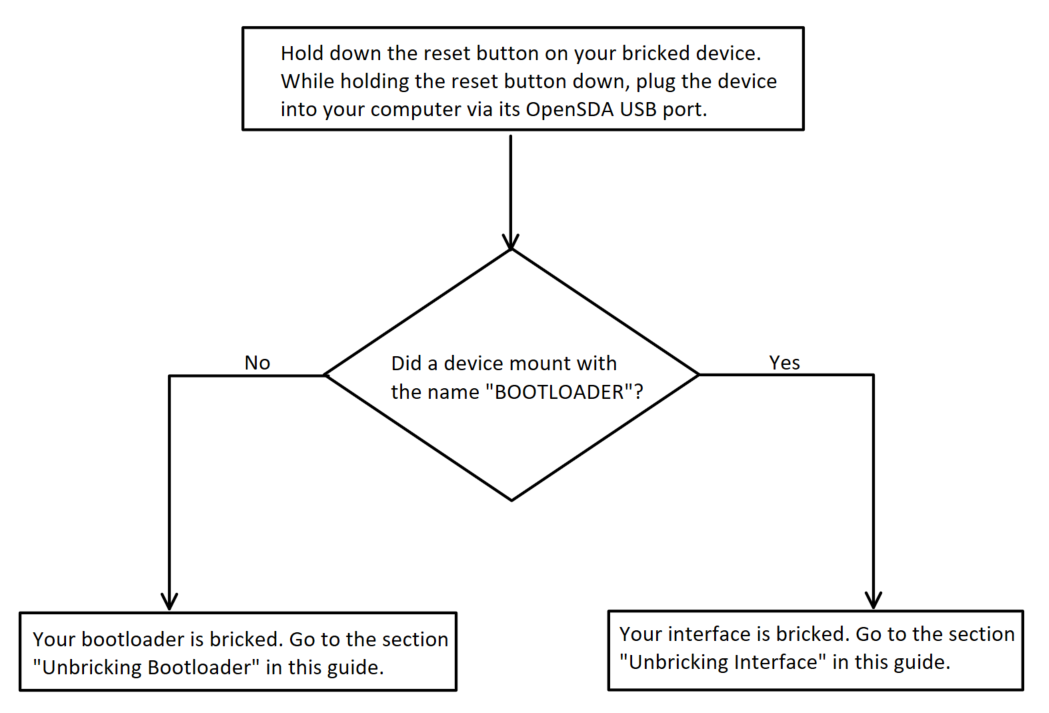
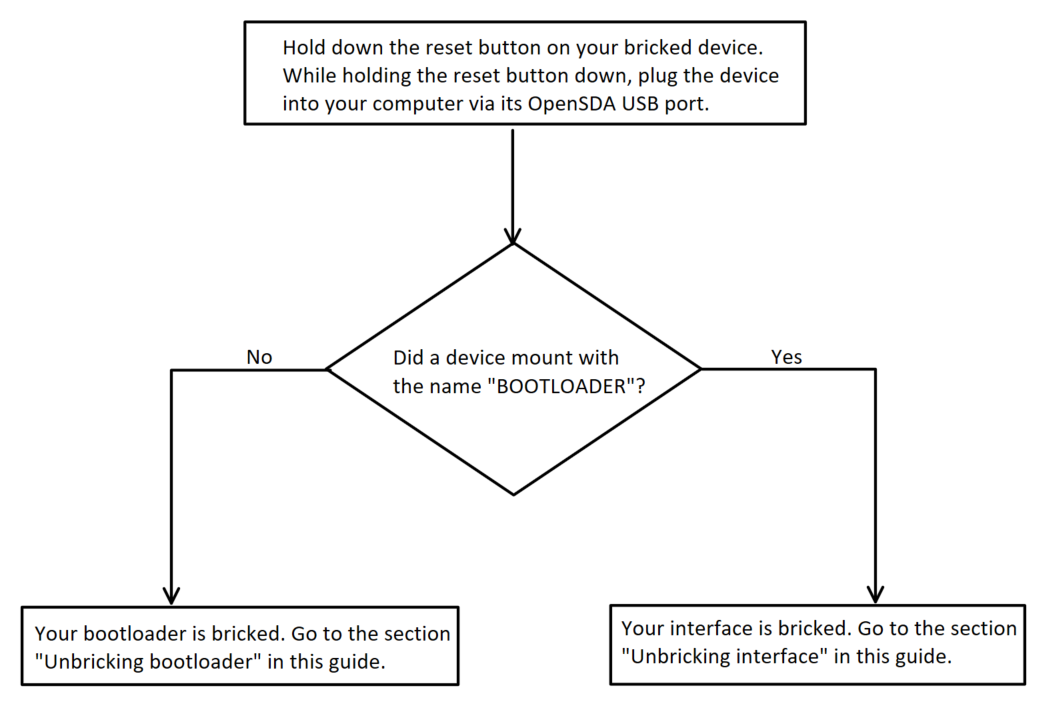
updated and renamed the guide.  Updated the flowchart image

diff --git a/unbricking_guide.md b/unbricking_guide.md
@@ -1,6 +1,7 @@
 # Unbricking Guide for mbed Devices
+Older versions of DAPLink can potentially brick your NXP/Freescale microcontroller if you attempt to update its firmware on a Windows 10 machine. This bricking is a result of the device's bootloader or interface getting overwritten improperly during the flashing process. If your device is bricked, this guide will help you in recovering your board.
 
-Before starting the unbricking process, it will be helpful to determine whether the actual bootloader on your target bricked, or just it's interface. Follow the steps below to determine what needs to be done to recover your board.
+Before starting the unbricking process, it will be helpful to determine whether the actual bootloader on your target bricked, or just it's interface. Without going into details on what the difference is between the two, the flowchart below will help determine what needs to be done to recover your board.
 
 ![](images/flowchart.png "Flowchart used to determine status of bricked board")
 
@@ -9,12 +10,12 @@ Follow the steps in this section if the flowchart at the beginning of the docume
 
 ### Required items
 * [pyOCD](https://github.com/mbedmicro/pyOCD).
-* [SWDAP debugging probe](https://developer.mbed.org/platforms/SWDAP-LPC11U35/).
+* [CMSIS-DAP debugging probe](https://developer.mbed.org/platforms/SWDAP-LPC11U35/).
 * [10 pin debug cable](https://developer.mbed.org/platforms/SWDAP-LPC11U35/).
 
 ### Step 1: Install pyOCD
-pyOCD is an Open Source Python 2.7 based library for programming and debugging ARM Cortex-M microcontrollers using CMSIS-DAP. In a terminal, you can install pyOCD using the following command:
-`sudo pip install pyOCD`
+pyOCD is an Open Source Python 2.7 based library for programming and debugging ARM Cortex-M microcontrollers using the CMSIS-DAP linked above. In a terminal, you can install pyOCD using the following command (install as superuser if using a Linux machine):
+`pip install pyOCD`
 
 Once pyOCD is installed, make a new directory, and put the file `restore_k20dx_firmware.py` at the root of that directory. `restore_k20dx_firmware.py` is a Python script used to flash binaries onto a bricked board.
 
@@ -30,19 +31,18 @@ Locate the 10-pin header associated with your board's k20dx flash. Usually, the 
 ![](images/connected.png "Connecting the debugger to the bricked board")
 
 ### Step 4: Flashing bricked board
-Now you are ready to flash the bricked board with your chosen firmware. Go to your directory that has the Python script, `restore_k20dx_firmware.py`. To run the script, use the following command (run with superuser privileges): `sudo python restore_k20dx_firmware.py`.
+Now you are ready to flash the bricked board with your chosen firmware. Go to your directory that has the Python script, `restore_k20dx_firmware.py`. To run the script, use the following command (run with superuser privileges if using a Linux machine): `python restore_k20dx_firmware.py`.
 
-The console then prompts you to specify which board to use as the debugger. The output looks similar to the following:
+The console then prompts you to specify which connected device to use as the debugger. The output looks similar to the following:
 ```
 id => usbinfo | boardname
 0 => NXP LPC800-MAX [k20d50m]
 1 => FRDM-K64F [k20d50m]
 input id num to choice your board want to connect
 ```
-Choose `id=0` here because that represents the debugger, and then hit enter. The unbricking begins. The terminal reports something like the following:
+In this list, `id=0` represents the debugger. Therefore, you would type `0` and then hit `Enter`. The unbricking begins, and the terminal reports something like the following:
 
 ```
-brandon@mint64 ~/Work/pyOCD $ sudo python restore_k20dx_firmware.py
 WARNING:root:Invalid coresight component, cidr=0x0
 WARNING:root:Invalid coresight component, cidr=0x1010101
 WARNING:root:Invalid coresight component, cidr=0x0
@@ -56,7 +56,7 @@ Now, unplug and replug the board into your computer normally (without holding do
 ## Unbricking interface
 Follow the steps in this section if the flowchart at the beginning of the document determined that your board's interface has been bricked.
 
-### Step 0: Required items
+### Required items
 * Windows 7 machine
 
 ### Step 1: Enter device into bootloader mode
